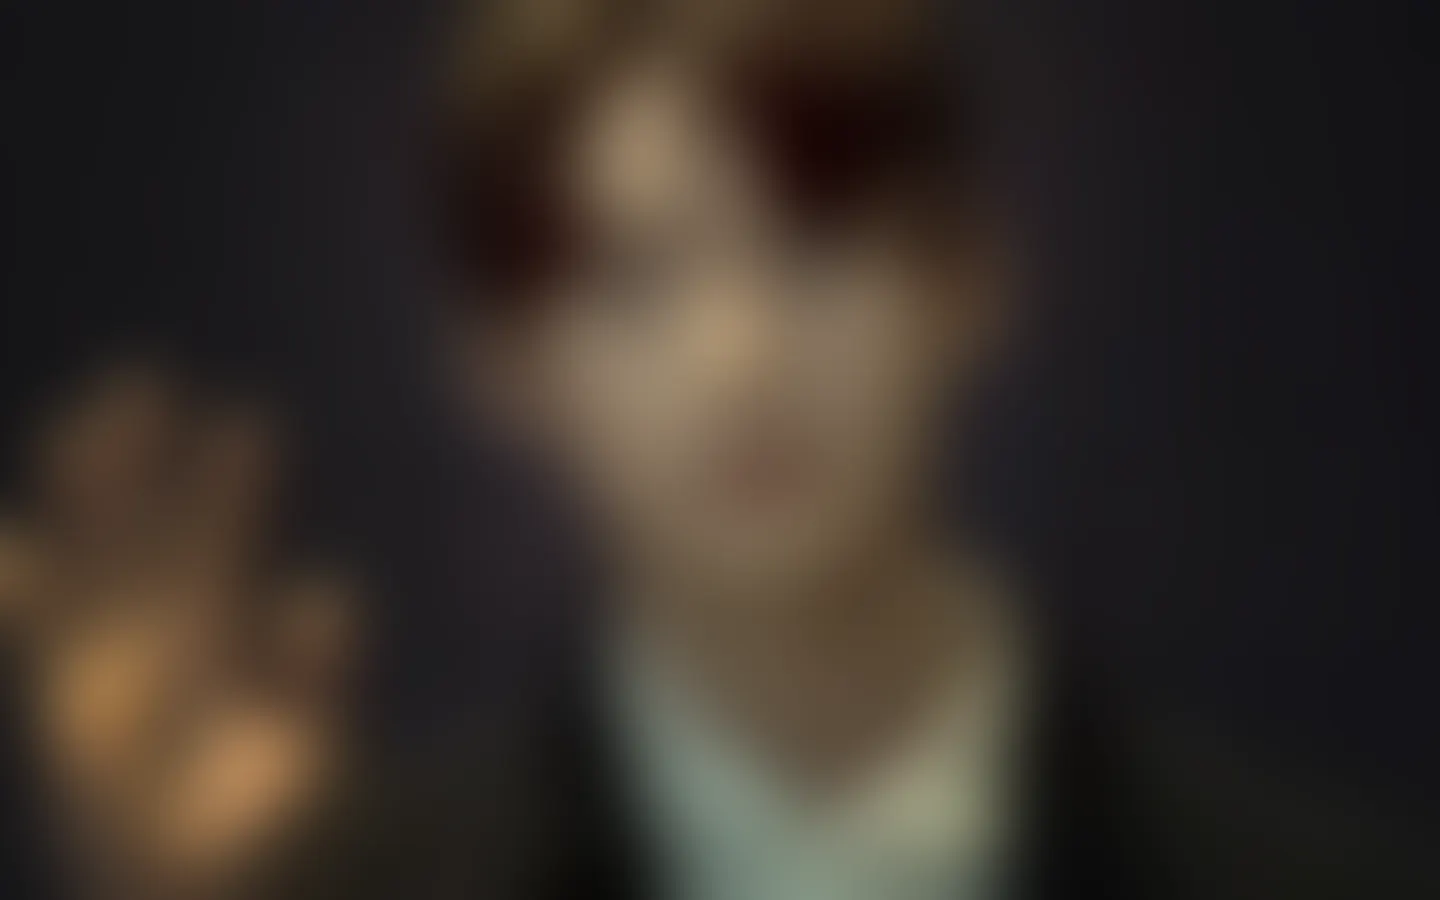
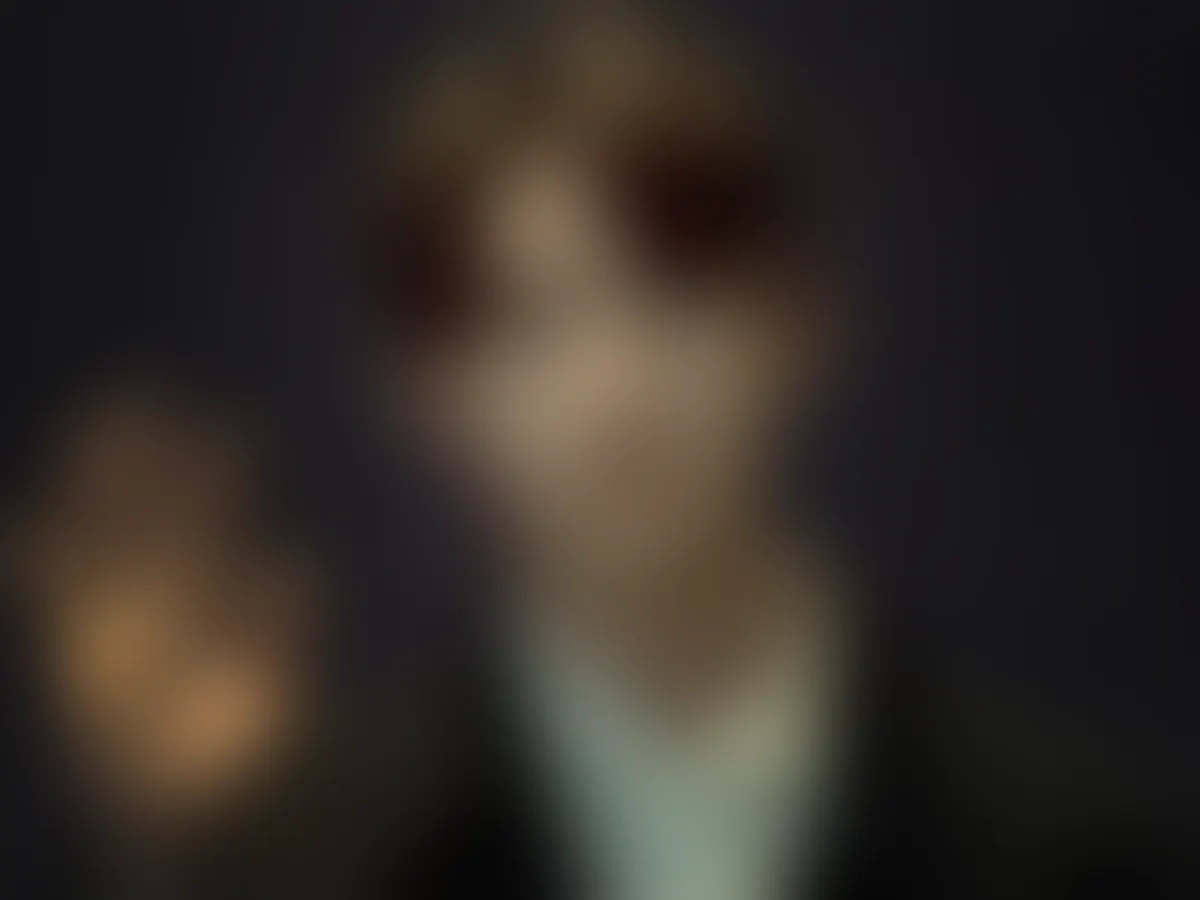
feat(people): use proper 4:3 full upper body framing for actor photos

diff --git a/app/globals.css b/app/globals.css
@@ -2059,6 +2059,33 @@ a {
   font-size: 14px;
 }
 
+/* ---------- PEOPLE / ACTOR GAME ---------- */
+
+.people-wrap {
+  width: 100%;
+  max-width: 580px;
+  margin: 0 auto 16px auto;
+}
+
+.people-scene {
+  aspect-ratio: 4 / 3 !important;
+  width: 100% !important;
+  max-width: 580px !important;
+  margin: 0 auto !important;
+  border-radius: var(--radius-lg);
+  overflow: hidden;
+  position: relative;
+  background: #1c1917;
+  box-shadow: var(--shadow-lg);
+}
+
+.people-scene .scene-frame-img {
+  width: 100%;
+  height: 100%;
+  object-fit: cover;
+  display: block;
+}
+
 /* ---------- CONNECTIONS GRID ---------- */
 
 .connections-shell { width: 100%; }

diff --git a/components/game/PeopleGameView.tsx b/components/game/PeopleGameView.tsx
@@ -155,7 +155,7 @@ export function PeopleGameView({ payload, dramas = [], gameDate, onSolve, onFail
   return (
     <div className="game-shell">
       <div className="people-wrap">
-        <div className="scene">
+        <div className="scene people-scene">
           <img
             key={frame}
             className="scene-frame-img"
